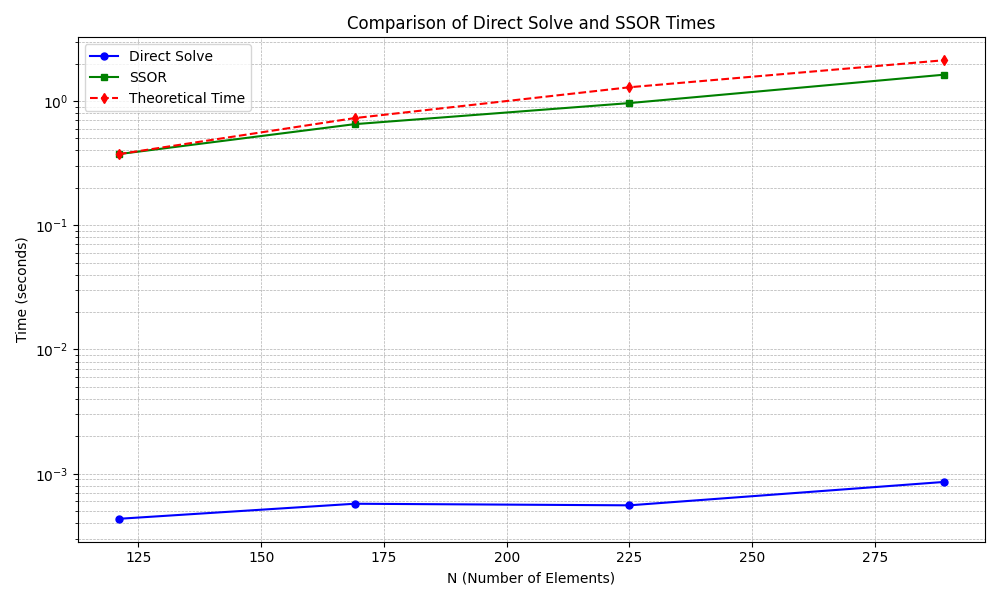
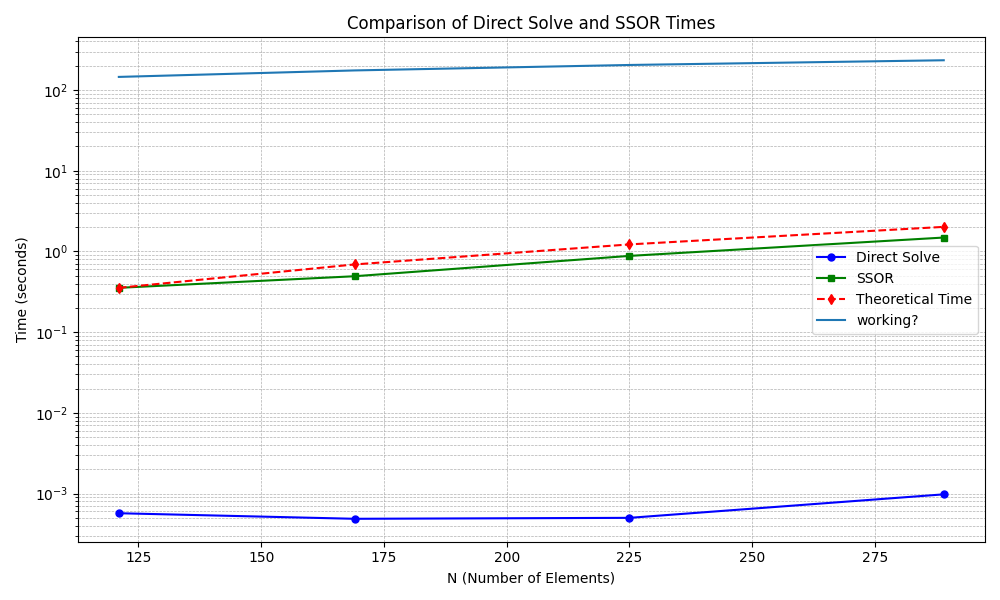
final

diff --git a/THE.py b/THE.py
@@ -679,32 +679,88 @@ def E7():
            
 def E8(dim=2):
     if dim == 2:
-        p_values = range(6, 10)
+        p_values = range(6, 12)
     elif dim == 3:
         p_values = range(6, 15)
     else:
         print("Invalid dimension")
+    
+    ########################################
+    ## Time Stuff ##
+    #######################################
     direct_times = []
     ssor_times = []
+
+    ########################################
+    ## Iteration Stuff ##
+    #######################################
+
+    nr_iter_theoretical = []
+    ssor_iterations = []
+    ssor_res_list = [1]
+
+
     N_vals = []
     for p in p_values:
         print(f"p = {p}")
         n_elements = 2 * p - 1
+        #Create Instance
         N_vals = np.append(N_vals, n_elements**dim)
         prob = Problem(n_elements, dim)
-        
+
         # Time for direct solve
         time_start = time.perf_counter()
-        direct_sol = spsolve(prob.matrix, prob.rhs)
+        _ = spsolve(prob.matrix, prob.rhs)
         time_direct_sol = time.perf_counter() - time_start
+        direct_times.append(time_direct_sol)
 
         # Time for SSOR solve
         time_start = time.perf_counter()
-        ssor_sol, ssor_res = prob.ssor()
-        time_ssor = time.perf_counter() - time_start
+        _, ssor_res = prob.ssor()
+        ssor_res_list = np.append(ssor_res_list, ssor_res)
 
-        direct_times.append(time_direct_sol)
+        time_ssor = time.perf_counter() - time_start
         ssor_times.append(time_ssor)
+
+        #Iteration Stuff
+        omega = 1.5
+        AA = prob.matrix.todense()
+        A_upper = np.triu(AA, 1)
+        A_lower = np.tril(AA, -1)
+
+        C_Jac = np.identity(len(AA)) - np.linalg.inv(np.diag(np.diag(AA))) @ AA
+        mu = max(np.abs(np.linalg.eigvals(C_Jac)))
+        #print(f"mu = {mu}")
+        convergence_rate = 0.25 * (omega * mu + np.sqrt(omega **2 * mu**2 + 4 * (mu-1)))**2
+        # Calculate convergence rates (successive ratios)
+        convergence_rates = [ssor_res[i] / ssor_res[i-1] for i in range(1, len(ssor_res))]
+
+        # Compute the average convergence rate
+        average_convergence_rate = np.mean(convergence_rates)
+        print(f"Theo: {convergence_rate}, Measured: {average_convergence_rate}")
+
+
+
+
+        # omega = 1.5
+        # AA = prob.matrix.todense()
+        # exact_solution = spsolve(prob.matrix, prob.rhs)
+        # D = np.diag(np.diag(AA))
+        # E = - np.tril(AA, -1)
+        # F = - np.triu(AA, 1)
+        # M_SSOR = 1 / (omega * (2-omega)) * (D - omega * F) @ np.linalg.inv(D) @ (D - omega * E)
+        # eigenvalues = np.linalg.eigvals(M_SSOR)
+        # spec_rad = max(np.abs(eigenvalues))
+        # theo_nr_iterations = np.log10((np.linalg.norm(exact_solution)/10e-10))/np.log10(spec_rad.real)
+
+        
+        # ssor_iterations = np.append(ssor_iterations, len(ssor_res))
+
+
+        # # eigenvalues = np.linalg.eigvals(prob.matrix.todense())
+        # # condition_number = max(eigenvalues)/min(eigenvalues)
+        # # theo_nr_iterations = condition_number**(1/2) * np.log10(1/1e-10)
+        # nr_iter_theoretical = np.append(nr_iter_theoretical, theo_nr_iterations)
 
     #theo_time = [(ssor_times[0]/(len(ssor_res)*(2 * prob.matrix.nnz * N_vals[0] + N_vals[0])))*(len(ssor_res)*(2 * prob.matrix.nnz * n_v + n_v)) for n_v in N_vals]
     theo_time = [(ssor_times[0]/(len(ssor_res)*(2 * N_vals[0]**2 + N_vals[0])))*(len(ssor_res)*(2 * n_v**2 + n_v)) for n_v in N_vals]
@@ -720,14 +776,22 @@ def E8(dim=2):
     plt.legend()
     plt.grid(True, which="both", linestyle="--", linewidth=0.5)
     plt.tight_layout()
-    plt.savefig(f"8/E8_{dim}.png")
+    plt.savefig(f"8/E8_times_{dim}.png")
+    
+    plt.figure(figsize=(10, 6))
+    plt.plot(N_vals, ssor_iterations, 's-', label="SSOR", markersize=5, color='green')
+    plt.plot(N_vals, nr_iter_theoretical, 'd--', label="Theoretical Iterations", markersize=5, color='red')
 
-"""The theoretical computation time for the SSOR is calculatred through the FLOPs per iteration times the number of iterations. We have two matrix vector products and two vector updates per iteration, resulting in a theoretical computation time of 2 * n*2 for the matrix * vector, (2cn, with c nnz for sparse matrices.) + 2n for the vector alloc (to fact check) """
-
-
+    plt.xlabel("N (Number of Elements)")
+    plt.ylabel("Time (seconds)")
+    plt.title("Comparison of Direct Solve and SSOR Times")
+    plt.legend()
+    plt.grid(True, which="both", linestyle="--", linewidth=0.5)
+    plt.tight_layout()
+    plt.savefig(f"8/E8_iterations_{dim}.png")
 
 def E9():
-    p_values = range(8, 15)
+    p_values = range(10, 15)
     plt.figure(figsize=(10, 6))  # Set the figure size
 
     for p in p_values:
@@ -736,13 +800,19 @@ def E9():
         u_h, residuals = Problem.ssor(problem)
         u_cg, residuals_cg = Problem.cg_with_ssor(problem)
 
-        plt.semilogy(residuals, label=f"SSOR, p = {p}", linestyle='-', marker='o', markersize=3, markevery=10)
-        plt.semilogy(residuals_cg, label=f"CG with SSOR, p = {p}", linestyle='--', marker='x', markersize=3, markevery=10)
+        plt.semilogy(residuals, label=f"SSOR, p = {p}", linestyle='-', marker='o', markersize=3, markevery=5)
+        plt.semilogy(residuals_cg, label=f"CG w. SSOR, p = {p}", linestyle='--', marker='x', markersize=3, markevery=5)
 
     plt.xlabel("Iteration")
     plt.ylabel("Residual")
     plt.title("Convergence of SSOR and CG with SSOR")
-    plt.legend()
+
+    # Get handles and labels, then sort them
+    handles, labels = plt.gca().get_legend_handles_labels()
+    sorted_handles_labels = sorted(zip(labels, handles), key=lambda x: x[0])
+    sorted_labels, sorted_handles = zip(*sorted_handles_labels)
+
+    plt.legend(sorted_handles, sorted_labels)
     plt.grid(True, which="both", linestyle="--", linewidth=0.5)
     plt.tight_layout()
     plt.savefig("9/E9.png")
@@ -750,7 +820,7 @@ def E9():
 
 def E10(dim=2):
     if dim == 2:
-        p_values = range(6, 10)
+        p_values = range(6, 25)
     elif dim == 3:
         p_values = range(6, 15)
     else:
@@ -785,12 +855,19 @@ def E10(dim=2):
         ssor_times.append(time_ssor)
         cg_times.append(time_cg)
 
+    p_val_lower = 1
+    p_val_upper = 2
     #theo_time = [(ssor_times[0]/(len(ssor_res)*(2 * prob.matrix.nnz * N_vals[0] + N_vals[0])))*(len(ssor_res)*(2 * prob.matrix.nnz * n_v + n_v)) for n_v in N_vals]
+    theo_time_lower = [(cg_times[0]/(len(cg_times)*(2 * N_vals[0]**p_val_lower + N_vals[0])))*(len(cg_times)*(2 * n_v**p_val_lower + n_v)) for n_v in N_vals]
+    theo_time_upper = [(cg_times[0]/(len(cg_times)*(2 * N_vals[0]**p_val_upper + N_vals[0])))*(len(cg_times)*(2 * n_v**p_val_upper + n_v)) for n_v in N_vals]
 
     plt.figure(figsize=(10, 6))
     plt.semilogy(N_vals, direct_times, 'o-', label="Direct Solve", markersize=5, color='blue')
     plt.semilogy(N_vals, ssor_times, 's-', label="SSOR", markersize=5, color='green')
     plt.semilogy(N_vals, cg_times, 'd-', label="CG with SSOR", markersize=5, color='red')
+    plt.semilogy(N_vals, theo_time_lower, 'd--', label="Theo. Time lower bound", markersize=5)
+    plt.semilogy(N_vals, theo_time_upper, 'd--', label="Theo. Time upper bound", markersize=5)
+
 
     plt.xlabel("N (Number of Elements)")
     plt.ylabel("Time (seconds)")
@@ -799,7 +876,6 @@ def E10(dim=2):
     plt.grid(True, which="both", linestyle="--", linewidth=0.5)
     plt.tight_layout()
     plt.savefig(f"10/E10_{dim}.png")
-
 
 
 #compare_methods()
@@ -825,7 +901,7 @@ def E10(dim=2):
 
 #E7()
 #E8(2)
-E9()
+#E9()
 #E10(2)
 
 
